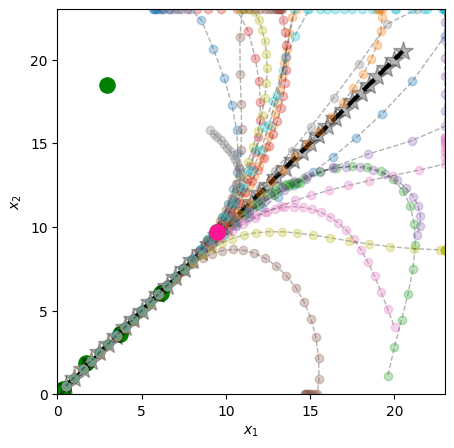
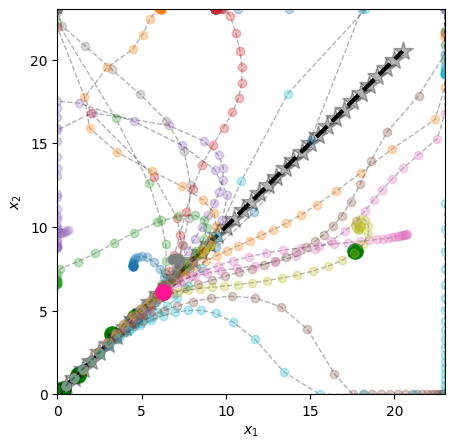
some small changes

diff --git a/project_name/main_test_2.py b/project_name/main_test_2.py
@@ -44,6 +44,7 @@ import neatplot
 from typing import NamedTuple
 import numpy as np
 import time
+from project_name.alg.algorithms import BatchAlgorithm
 
 config.update("jax_enable_x64", True)
 
@@ -61,9 +62,10 @@ class ExPath(NamedTuple):
     y: jnp.ndarray
 
 
-class NStep(Algorithm):
+class NBatchStep(BatchAlgorithm):
     """
-    An algorithm that takes n steps through a state space (and touches n+1 states).
+    An algorithm that takes n batches of steps through a state space, where each batch
+    is fixed at a size of 2.
     """
 
     def set_params(self, params):
@@ -71,35 +73,44 @@ class NStep(Algorithm):
         super().set_params(params)
         params = dict_to_namespace(params)
 
-        self.params.name = getattr(params, "name", "NStep")
+        self.params.name = getattr(params, "name", "NBatchStep")
         self.params.n = getattr(params, "n", 10)
         self.params.f_is_diff = getattr(params, "f_is_diff", DEFAULT_F_IS_DIFF)
         self.params.init_x = getattr(params, "init_x", [0.0, 0.0])
         self.params.project_to_domain = getattr(params, "project_to_domain", True)
         self.params.domain = getattr(params, "domain", [[0.0, 10.0], [0.0, 10.0]])
 
-    def get_next_x(self):
+    def get_next_x_batch(self):
         """
         Given the current execution path, return the next x in the execution path. If
         the algorithm is complete, return None.
         """
         len_path = len(self.exe_path.x)
         if len_path == 0:
-            next_x = self.params.init_x
+            next_x_batch = [self.params.init_x] * 2
         elif len_path >= self.params.n + 1:
-            next_x = None
+            next_x_batch = []
         else:
             if self.params.f_is_diff:
-                zip_path_end = zip(self.exe_path.x[-1], self.exe_path.y[-1])
-                next_x = [xi + yi for xi, yi in zip_path_end]
+                zip_path_end_1 = zip(self.exe_path.x[-2], self.exe_path.y[-2])
+                next_x_1 = [xi + yi for xi, yi in zip_path_end_1]
+                next_x_1[-1] = next_x_1[-1] + self.exe_path.y[-1][-1]
+
+                zip_path_end_2 = zip(self.exe_path.x[-1], self.exe_path.y[-1])
+                next_x_2 = [xi + yi for xi, yi in zip_path_end_2]
+                next_x_2[0] = next_x_2[0] + self.exe_path.y[-1][0]
+
+                next_x_batch = [next_x_1, next_x_2]
             else:
-                next_x = self.exe_path.y[-1]
+                raise NotImplementedError("Not implemented!")
 
             if self.params.project_to_domain:
                 # Optionally, project to domain
-                next_x = project_to_domain(next_x, self.params.domain)
+                next_x_batch = [
+                    project_to_domain(x, self.params.domain) for x in next_x_batch
+                ]
 
-        return next_x
+        return next_x_batch
 
     def get_output(self):
         """Return output based on self.exe_path."""
@@ -125,14 +136,16 @@ def plot_path_2d(path, ax=None, true_path=False):
     y_plot = [xi[1] for xi in path.x]
 
     if true_path:
-        ax.plot(x_plot, y_plot, "k--", linewidth=3)
+        ax.plot(x_plot[1::2], y_plot[1::2], "k--", linewidth=3)
+        ax.plot(x_plot[::2], y_plot[::2], "k--", linewidth=3)
         ax.plot(x_plot, y_plot, "*", color="k", markersize=15, alpha=0.3)
     else:
-        ax.plot(x_plot, y_plot, "k--", linewidth=1, alpha=0.3)
+        ax.plot(x_plot[1::2], y_plot[1::2], "k--", linewidth=1, alpha=0.3)
+        ax.plot(x_plot[::2], y_plot[::2], "k--", linewidth=1, alpha=0.3)
         ax.plot(x_plot, y_plot, "o", alpha=0.5)
 
 
-def plot_path_2d_jax(path, ax=None, true_path=False):
+def plot_path_2d_jax(path, ax=None, true_path=False):  # TODO improve on this
     """Plot a path through an assumed two-dimensional state space."""
     if ax is None:
         fig, ax = plt.subplots(1, 1, figsize=(5, 5))
@@ -141,11 +154,13 @@ def plot_path_2d_jax(path, ax=None, true_path=False):
     y_plot = [xi[1] for xi in path]
 
     if true_path:
-        ax.plot(x_plot, y_plot, "k--", linewidth=3)
-        ax.plot(x_plot, y_plot, "*", color="k", markersize=15)
+        ax.plot(x_plot[1::2], y_plot[1::2], "k--", linewidth=3)
+        ax.plot(x_plot[::2], y_plot[::2], "k--", linewidth=3)
+        ax.plot(x_plot, y_plot, "*", color="k", markersize=15, alpha=0.3)
     else:
-        ax.plot(x_plot, y_plot, "k--", linewidth=1, alpha=0.3)
-        ax.plot(x_plot, y_plot, "o", alpha=0.3)
+        ax.plot(x_plot[1::2], y_plot[1::2], "k--", linewidth=1, alpha=0.3)
+        ax.plot(x_plot[::2], y_plot[::2], "k--", linewidth=1, alpha=0.3)
+        ax.plot(x_plot, y_plot, "o", alpha=0.5)
 
 
 # -------------
@@ -154,11 +169,15 @@ def plot_path_2d_jax(path, ax=None, true_path=False):
 # Set black-box function
 f = step_northwest
 
+# Set batch version of black-box function (for running BatchAlgorithm on f)
+def f_batch(x_list):
+    return [f(x) for x in x_list]
+
 # Set domain
 domain = [[0, 23], [0, 23]] if LONG_PATH else [[0, 10], [0, 10]]
 
 # Set algorithm
-algo_class = NStep
+algo_class = NBatchStep
 n_steps = 40 if LONG_PATH else 15
 algo_params = {"n": n_steps, "init_x": [0.5, 0.5], "domain": domain}
 algo = algo_class(algo_params)
@@ -175,7 +194,7 @@ multi_gp_params = {"n_dimy": 2, "gp_params": gp_params}
 #
 # Compute true path
 true_algo = algo_class(algo_params)
-true_path, _ = algo.run_algorithm_on_f(f)
+true_path, _ = algo.run_algorithm_on_f(f_batch)
 
 def create_gp_models(output_dims):  # TODO can we vmap this ever?
     """Create multiple single-output GP models."""
@@ -196,6 +215,7 @@ def return_optimised_posterior(data: gpjax.Dataset, prior: gpjax.gps.Prior, key)
                                  safe=True,
                                  key=key,
                                  verbose=False)
+    # TODO do we even need to optimise this?
 
     return opt_posterior
 
@@ -369,6 +389,6 @@ for i in range(bo_iters):
 
     save_figure = True
     if save_figure:
-        neatplot.save_figure(f"bax_multi_new{i}", "png")
+        neatplot.save_figure(f"bax_test_2{i}", "png")
 
 print(time.time() - start_time)
